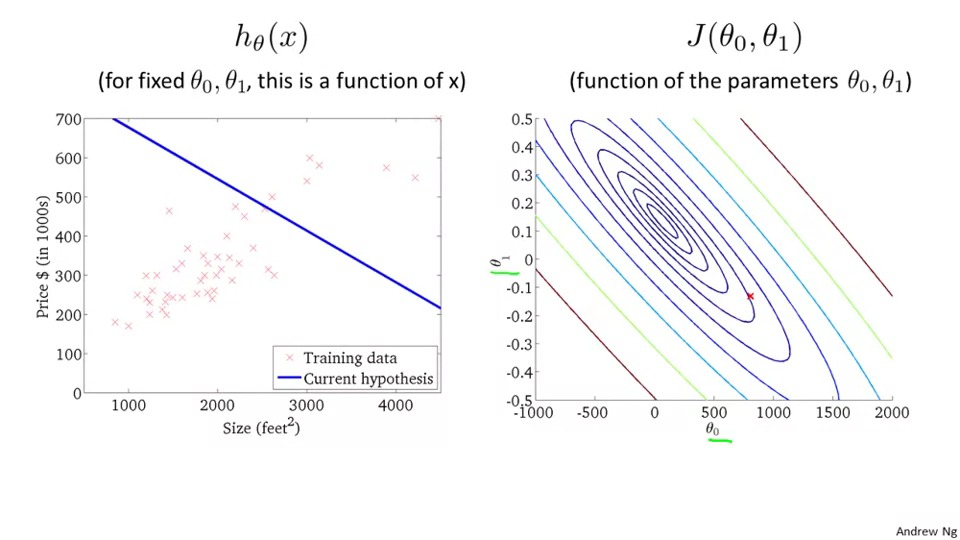
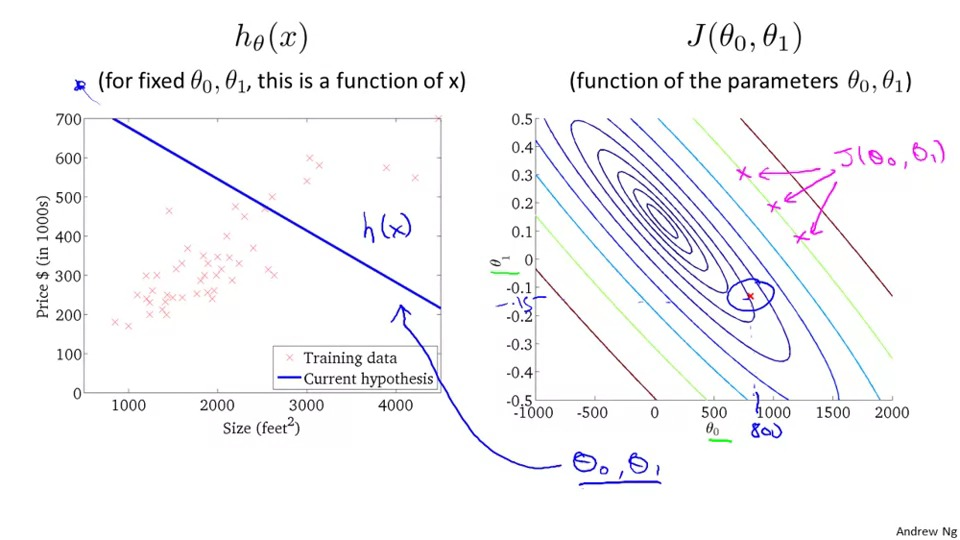
add

diff --git a/deepleaning/ML_STF/1.线性回归/2.线性回归.md b/deepleaning/ML_STF/1.线性回归/2.线性回归.md
@@ -12,3 +12,15 @@
 
 ![](../1.%E7%BA%BF%E6%80%A7%E5%9B%9E%E5%BD%92/img/1.jpg)
 
+然后右边这个是个轮廓图：
+
+![](img/2.jpg)
+
+每个圈都代表了，这个圈上的点，值是相同的。
+
+很容易想象到，中间的那个点就是最小点。
+
+左边呢，就是，比如这个蓝色的参数点，放到模型中的样子。
+
+### 梯度下降
+
